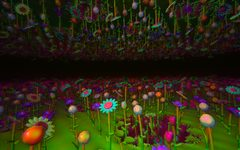
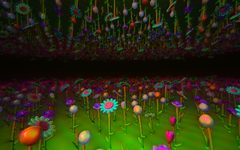
Meadow: the ground has no holes through to the field on its other side
Claude-Session: https://claude.ai/code/session_01P6VPR7K8HbtJTsW3ebQojf

diff --git a/js/worlds.js b/js/worlds.js
@@ -1471,7 +1471,7 @@ export const WORLDS=[
  "  vec2 pz=yq<0.0?p.xz:p.xz+vec2(0.5,0.0);", /* the field overhead is set half a step along, so that it is not the lower one's mirror image */
  "  vec2 s=vec2(1.0,1.7320508);vec2 a=mod(pz,s)-0.5*s;vec2 b=mod(pz-0.5*s,s)-0.5*s;",
  "  vec2 l=dot(a,a)<dot(b,b)?a:b;vec2 c=pz-l;",
- "  flD=t-0.05*sin(0.7853982*pz.x)*sin(0.9068997*pz.y)-0.012*sin(7.0685835*pz.x)*sin(7.2551975*pz.y);flO=vec4(0.3+0.12*sin(7.0685835*pz.x)*sin(7.2551975*pz.y),0.0,0.0,0.46);", /* the ground, with small bumps */
+ "  flD=t-0.08-0.05*sin(0.7853982*pz.x)*sin(0.9068997*pz.y)-0.012*sin(7.0685835*pz.x)*sin(7.2551975*pz.y);flO=vec4(0.3+0.12*sin(7.0685835*pz.x)*sin(7.2551975*pz.y),0.0,0.0,0.46);", /* the ground, with small bumps. It is kept above the middle of the slab the two fields share (t = 0), or its hollows would be holes through to the field on the other side */
  "  flC(l,c,t);",
  "  flC(l-vec2(1.0,0.0),c+vec2(1.0,0.0),t);flC(l+vec2(1.0,0.0),c-vec2(1.0,0.0),t);",
  "  flC(l-vec2(0.5,0.8660254),c+vec2(0.5,0.8660254),t);flC(l+vec2(0.5,0.8660254),c-vec2(0.5,0.8660254),t);",
@@ -1489,7 +1489,7 @@ export const WORLDS=[
   var ax0=md(x,1)-.5,az=md(z,s1)-.5*s1,bx=md(x-.5,1)-.5,bz=md(z-.5*s1,s1)-.5*s1,lx0=ax0,lz0=az;
   if(!(ax0*ax0+az*az<bx*bx+bz*bz)){lx0=bx;lz0=bz}
   var cx0=x-lx0,cz0=z-lz0,O=[[0,0],[1,0],[-1,0],[.5,.8660254],[-.5,-.8660254],[.5,-.8660254],[-.5,.8660254]];
-  d=t-.05*Math.sin(.7853982*x)*Math.sin(.9068997*z)-.012*Math.sin(7.0685835*x)*Math.sin(7.2551975*z);
+  d=t-.08-.05*Math.sin(.7853982*x)*Math.sin(.9068997*z)-.012*Math.sin(7.0685835*x)*Math.sin(7.2551975*z);
   for(i=0;i<7;i++){
     var cx=cx0+O[i][0],cz=cz0+O[i][1],lx=lx0-O[i][0],lz=lz0-O[i][1];
     var n=mo(Math.floor(2*cx+.5),16)+16*mo(Math.floor(cz*1.1547005+.5),8),h=mo(n*(n+3),61),k=mo(h,6);
